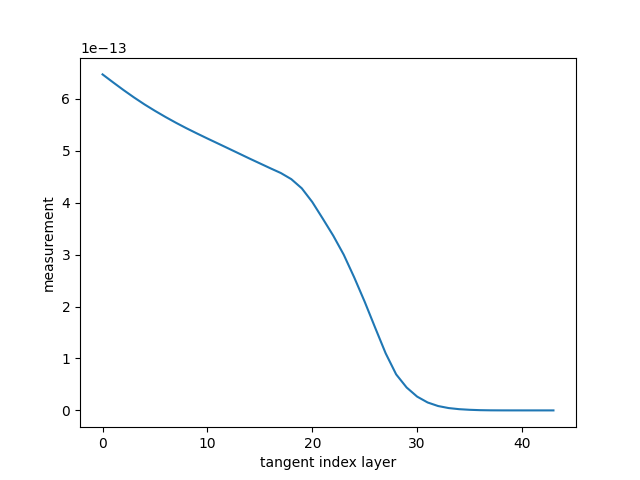
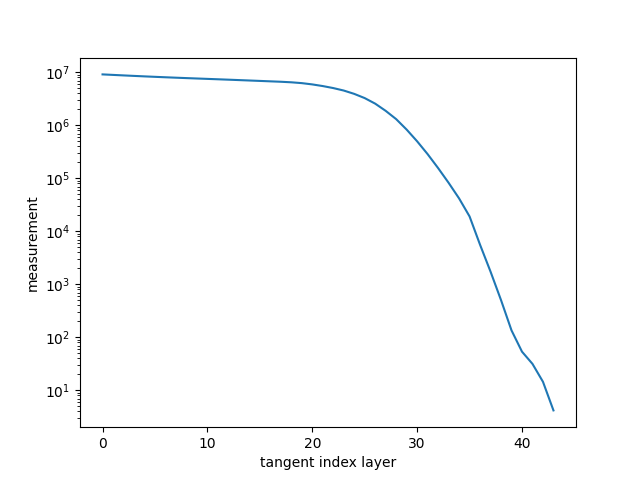
solid model now still have to work abit on the voigt profile but not sufficent

diff --git a/main.py b/main.py
@@ -22,13 +22,17 @@ VMR_O3, height_values, pressure_values, temp_values = testReal.get_data(filename
 #[parts if VMR_O3 * 1e6 = ppm], [m], [Pa] = [kg / (m s^2) ]\
 height_values = height_values * 1e-3#in km 1e2 # in cm
 height_values = np.linspace(18,93,45)
+pressure_values = pressure_values * 1e-1 # in cgs
+N_A = constants.Avogadro # in mol^-1
+k_b_cgs = constants.Boltzmann * 1e7#in J K^-1
+R_gas = N_A * k_b_cgs # in ..cm^3
 
-
-# fig1,ax1 = plt.subplots()
-# ax1.plot(pressure_values, height_values)
-# ax1.set_ylabel('height in km')
-# ax1.set_xlabel('pressure in Pa')
-#plt.show()
+x = VMR_O3 * N_A * pressure_values /(R_gas * temp_values)#* 1e-13
+fig1,ax1 = plt.subplots()
+ax1.plot(VMR_O3, height_values)
+ax1.set_ylabel('height in km')
+ax1.set_xlabel('Ozone number density / cm^3')
+plt.show()
 
 #
 # filedir = glob.glob('/home/lennartgolks/Python/firstModelCheck/HITRAN_o3_data/*.xsc')
@@ -70,24 +74,25 @@ for i, lines in enumerate(data_set):
 
 
 #constants in si
-h = constants.h #in J Hz^-1
-c = constants.c # in m/s
-k_b = constants.Boltzmann #in J K^-1
+h = constants.h * 1e7#in J Hz^-1
+c_cgs = constants.c * 1e2# in m/s
+k_b_cgs = constants.Boltzmann * 1e7#in J K^-1
 T = temp_values[0:-1] #in K
 N_A = constants.Avogadro # in mol^-1
 
-C2 = h * c /k_b
-C1 = h * c**2
+C2 = h * c_cgs /k_b_cgs
+C1 = h * c_cgs**2
 #calculate voigt function
 ind = 293
 
 #pick wavenumber in cm^-1
-v_0 = wvnmbr[ind][0]*1e2
+v_0 = wvnmbr[ind][0]#*1e2
 #wavelength
 lamba = 1/v_0
-print("Frequency " + str(np.around(v_0*c/1e9,2)) + " in GHz")
+print("Frequency " + str(np.around(v_0*c_cgs/1e9,2)) + " in GHz")
 
-Source = 2 * C1/(lamba**5 * (np.exp(C2/(lamba*216))-1))
+Source = 2 * C1/(lamba**5 * (np.exp(C2/(lamba*temp_values))-1))
+#T_bright =
 #print(2 * C1/(lamba**5 * (np.exp(C2/(lamba*216))-1)))
 
 #calc pressure HWHM
@@ -100,13 +105,11 @@ gamma = [ (T_ref/ temp)**n_air[ind] * 2 * g_self[ind] for (p,temp) in zip(pressu
 
 #calc Dopple HWHM for different temperatures
 mol_M = 48 #g/mol
-k = 1.3807 * 1e-16 #Boltzmann cnts in cgs
-c_cgs = c * 1e2
-C3 = np.sqrt( N_A  * k * 2* np.log(2))/c_cgs #[7.17e-7
-alpha =  np.array([ C3*v_0*1e-2 * np.sqrt(temp/mol_M) for temp in temp_values])
+C3 = np.sqrt( N_A  * k_b_cgs * 2* np.log(2))/c_cgs #[7.17e-7
+alpha =  np.array([ C3*v_0 * np.sqrt(temp/mol_M) for temp in temp_values])
 sigma = alpha / np.sqrt(2 * np.log(2))
 
-sigma_gauss = v_0*1e-2 * np.sqrt(k * 260/ mol_M)
+sigma_gauss = v_0 * np.sqrt(k_b_cgs * 260/ mol_M)
 
 #voigt function as real part of Faddeeva function
 def V(x, sigma, gamma):
@@ -125,7 +128,7 @@ def G(x, alpha):
     return np.sqrt(1/ (2* np.pi)) / alpha * np.exp(-(x / alpha)**2) # * np.log(2))
 
 
-x_wvnmbrs = np.linspace(-1*v_0*1e-2,1*v_0*1e-2,1000)
+x_wvnmbrs = np.linspace(-1*v_0,1*v_0,1000)
 
 print(np.exp(-(2 / alpha[20])**2 * np.log(2)))
 
@@ -142,20 +145,24 @@ plt.show()
 
 
 #calculate weighted absorption crosssection
-d_height = height_values[1::] - height_values[0:-1]
-R_gas = constants.R * 1e6 # in ..cm^3
-N_A = constants.Avogadro
+d_height = (height_values[1::] - height_values[0:-1] )
+R_gas = N_A * k_b_cgs # in ..cm^3
+
 
 #w_cross = [ (1e-6  * pressure_values[i] / (R_gas* temp_values[i]) )**(1/3) * S[ind][0] *N_A* norm_Voigt[0] * 1e11 for i, vmr in enumerate(VMR_O3)]
 #w_cross = [ (vmr  * N_A * pressure_values[i] / (R_gas* temp_values[i]) )**(1/3) * S[ind][0]/N_A * norm_Voigt[0] for i, vmr in enumerate(VMR_O3)]
 
+# caculate number of molecules in one cm^3
+num_mole = [ (  pressure_values[i]/ (k_b_cgs * temp_values[i]) ) for i in range(0, len(pressure_values))]
+#num_mole = [ ( 1e6 * pressure_values[i]  ) for i in range(0, len(pressure_values))]
+
 # vmr might not have correct units
-C4 =  [V(0,sigma[temp],gamma[temp])/sum(V(0,sigma[temp],gamma[temp])) for temp in range(0, len(temp_values)) ] #scaling trhough dopller/voigt profile
-w_cross = [ S[ind] *1e-2 * vmr for i, vmr in enumerate(VMR_O3)]
+C4 =  [V(x_wvnmbrs[500],sigma[temp],gamma[temp])/sum(V(x_wvnmbrs,sigma[temp],gamma[temp])) for temp in range(0, len(temp_values)) ] #scaling trhough dopller/voigt profile
+w_cross = [ S[ind] * vmr * C4[i] for i, vmr in enumerate(VMR_O3)]
 
 #w_cross = [ (vmr)**(1/3) * S[ind][0] * norm_Voigt[0] for i, vmr in enumerate(VMR_O3)]
 
-meas_per_h = [ w_cross[i] * p * C4[i] * Source/ (k_b *temp_values[i]) for i, p in enumerate(pressure_values)]
+meas_per_h = [ w_cross[i]  * num_mole[i]  * Source[i] for i, p in enumerate(pressure_values)]
 
 #transmission starting from ground layer
 # length is one shorter than heitght values
@@ -165,16 +172,17 @@ measurements = np.zeros((len(height_values)-1,1))
 for tang_ind in range(0,len(height_values)-1):
 
     trans_per_h = [ meas_per_h[i] * (height_values[i] + R)/np.sqrt(
-            (height_values[i]+ R)**2 + (height_values[tang_ind]+ R)**2 ) * d_height[i] * 1e-3
+            (height_values[i]+ R)**2 + (height_values[tang_ind]+ R)**2 ) * d_height[i]  * 1e5
                     for i in range(tang_ind,len(height_values)-1)]
 
     measurements[tang_ind] = sum(trans_per_h) + sum(trans_per_h)
 
 #
 fig2, ax2 = plt.subplots()
-ax2.plot(np.linspace(0,43,44), measurements)
+ax2.plot(np.linspace(0,43,44), measurements*1e18)
 ax2.set_xlabel('tangent index layer')
 ax2.set_ylabel('measurement')
+ax2.set_yscale('log')
 fig2.savefig('measurements.png')
 plt.show()
 
